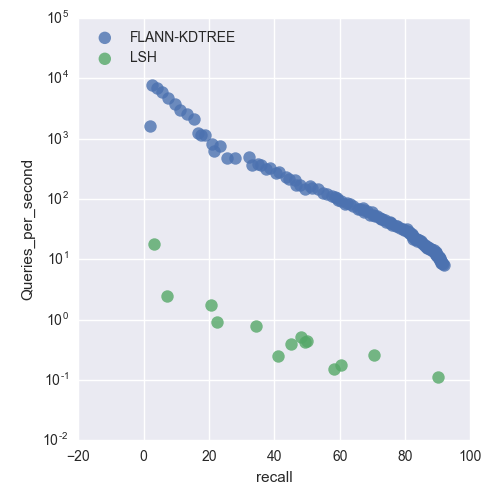
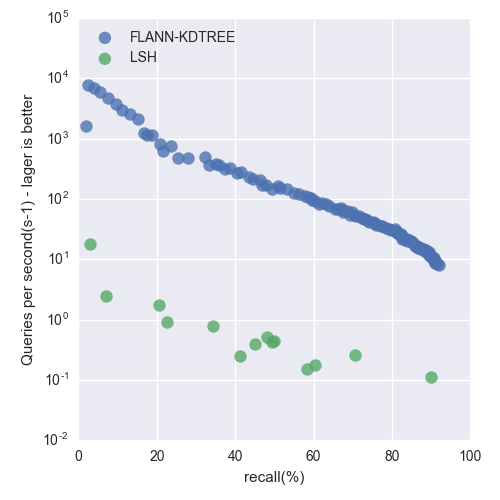
final commit

diff --git a/src/analysis.py b/src/analysis.py
@@ -185,18 +185,19 @@ def plot_v2(kdtree_sift, lsh_sift, datatype):
 	temp[:,:2] = np.concatenate((kdtree_sift, lsh_sift),axis = 0)
 	temp[:num,2] = 1
 	temp[num:,2] = 2
-	df = pd.DataFrame(temp, columns = ['recall', 'Queries_per_second','algorithms'])	
+	df = pd.DataFrame(temp, columns = ['recall(%)', 'Queries per second(s-1) - lager is better','algorithms'])	
 	df['algorithms'][df['algorithms'] == 1] = 'FLANN-KDTREE'
 	df['algorithms'][df['algorithms'] == 2] = 'LSH'
 	#print df
 	plt.figure()
-	fgrid = sns.lmplot(x="recall", y="Queries_per_second", hue='algorithms',data=df,
+	fgrid = sns.lmplot(x="recall(%)", y="Queries per second(s-1) - lager is better", hue='algorithms',data=df,
 			fit_reg=False, ci=None, scatter_kws={"s": 80},legend=False);
 	axes = fgrid.axes
 	fgrid.despine(left=True)
 	plt.legend(loc='upper left')
 	fgrid.set(yscale="log")
 	axes[0,0].set_ylim(1e-2,1e5)
+	axes[0,0].set_xlim(0,)
 	plt.savefig('figure/{}_benchmark.png'.format(datatype))
 	plt.close(0)
 
@@ -210,8 +211,8 @@ if __name__ == '__main__':
 	#test_()
 	datatype = ['SIFT','GIST']
 	for i in datatype:
-		kdtree_sift = np.loadtxt('%s1M_FLANN.csv' % (i), delimiter=',')
-		lsh_sift = np.loadtxt('%s1M_LSH.csv' % (i), delimiter=',')
+		kdtree_sift = np.loadtxt('result/%s1M_FLANN.csv' % (i), delimiter=',')
+		lsh_sift = np.loadtxt('result/%s1M_LSH.csv' % (i), delimiter=',')
 		plot_v2(kdtree_sift, lsh_sift, i)
 	#fname = 'GIST1M_FLANN.csv'
 	#if not os.path.isfile(fname):

diff --git a/src/test_func.py b/src/test_func.py
@@ -286,7 +286,7 @@ def exp_flann_sift():
 		res.append((recall_,tim))
 		checks = checks + 3 * count
 		print tree_num,'\t{}\t{} %\t{}'.format(checks,recall_,tim)
-	np.savetxt('SIFT1M_FLANN.csv',np.array(res),delimiter = ",")
+	np.savetxt('result/SIFT1M_FLANN.csv',np.array(res),delimiter = ",")
 
 def exp_flann_gist():
 	#dataset = vecs_read('../data/gist/gist_base.fvecs')
@@ -319,7 +319,7 @@ def exp_flann_gist():
 		res.append((recall_,tim))
 		checks = checks + 8 * count
 		print tree_num,'\t{}\t{} %\t{}'.format(checks,recall_,tim)
-	np.savetxt('GIST1M_FLANN.csv',np.array(res),delimiter = ",")
+	np.savetxt('result/GIST1M_FLANN.csv',np.array(res),delimiter = ",")
 
 def exp_lsh_sift():
 	query_num = 10
@@ -348,7 +348,7 @@ def exp_lsh_sift():
 			acc = recall(result, ground_truth, k_num)
 			res.append((acc, tim))
 			print '{}\t{}\t{}\t{}'.format(k,L,acc,tim)
-	np.savetxt("SIFT1M_LSH.csv", res, delimiter = ",")
+	np.savetxt("result/SIFT1M_LSH.csv", res, delimiter = ",")
 
 
 def exp_lsh_gist():
@@ -380,5 +380,5 @@ def exp_lsh_gist():
 			acc = recall(result, ground_truth, k_num)
 			res.append((acc, tim))
 			print '{}\t{}\t{}\t{}'.format(k,L,acc,tim)
-	np.savetxt("GIST1M_LSH.csv", res, delimiter = ",")
+	np.savetxt("result/GIST1M_LSH.csv", res, delimiter = ",")
 

diff --git a/README.md b/README.md
@@ -13,23 +13,22 @@ Install Pyflann, Seaborn, and download the source code from github.
 pip install pyflann
 pip install seaborn
 git clone https://github.com/memoiry/flann_lsh
+cd flann_lsh/src
 ```
 
-Put the sift and gist data in the corresponding data folder and run the command below.
+Put the sift and gist data in the corresponding data folder and run the command below. It may take few hours to finish. The result will be put on the result folder in which actually contains my precomputed results.
 
 ```bash
-cd flann_lsh/src
-python run_exp.py
+python run_exp_v2.py
 ```
 
-To generate the result figure, run the command below. The analysis will be put in figure folder.
+To generate the figure, run the command below. The analysis will be put in figure folder.
 
 ```bash
 python analysis.py
 ```
 
 ### PLSH class usage
-
 
 PLSH is a class used to create a local sensitive hash object.
 
@@ -90,19 +89,27 @@ acc = recall(result, ground_truth, k)
 
 ## Result
 
-
 ### Hardware 
 
 * Macbook Pro 2014 mid 
 * CPU: Intel Core i5, 3.30GHz, 8GB RAM
 
-### SIFT1M
+### SIFT1M Dataset
 
 <p align="center">
-    <img src="https://ooo.0o0.ooo/2017/04/10/58eb9f1e6b466.png" width="640">
+    <img src="https://ooo.0o0.ooo/2017/04/14/58f0eeab73cb2.png" width="640">
 </p>
-<p align="center" style="color:rgb(220,220,220);">
-    Figure 6: GIST1M dataset using LSH with the number of hash table vary.
+<p align="center">
+    Figure 1: SIFT1M dataset
+</p>
+
+### GIST1M Dataset
+
+<p align="center">
+    <img src="https://ooo.0o0.ooo/2017/04/14/58f0eeab5b7f5.png" width="640">
+</p>
+<p align="center">
+    Figure 2: GIST1M dataset
 </p>
 
 ## lsh原理
